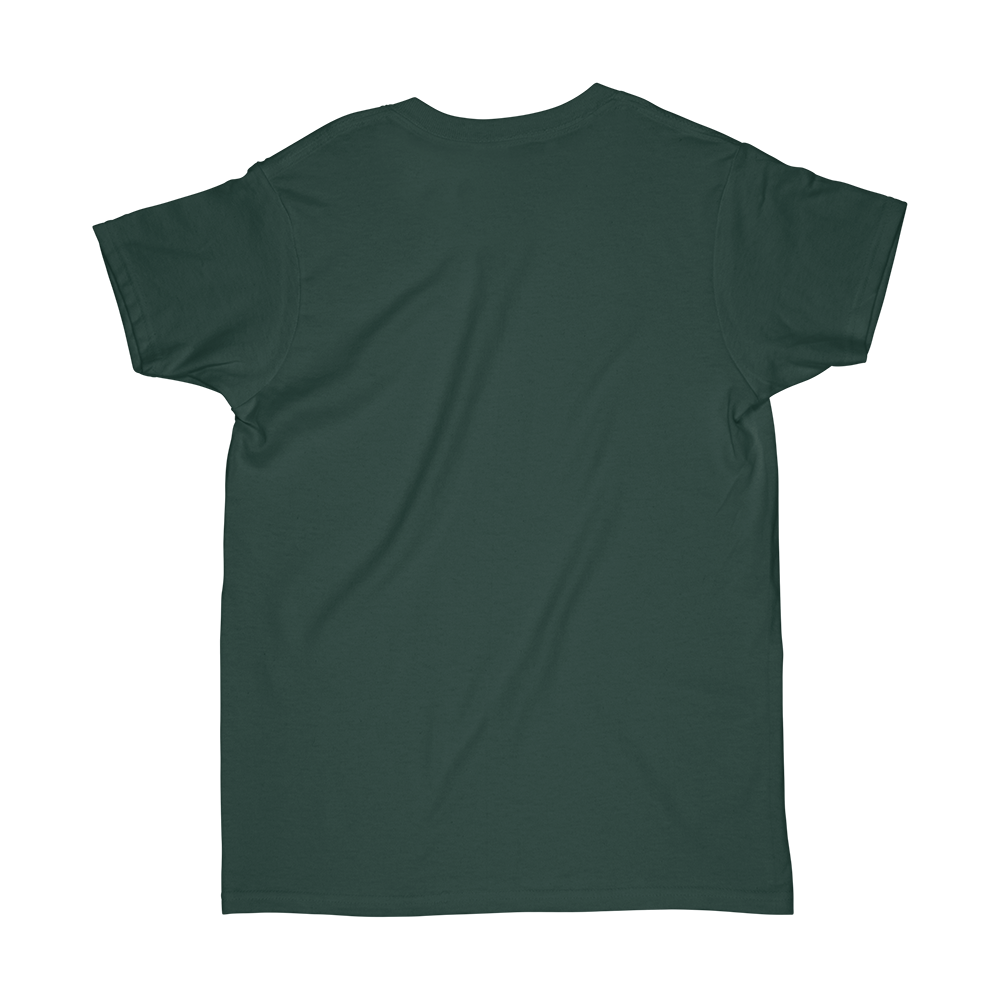
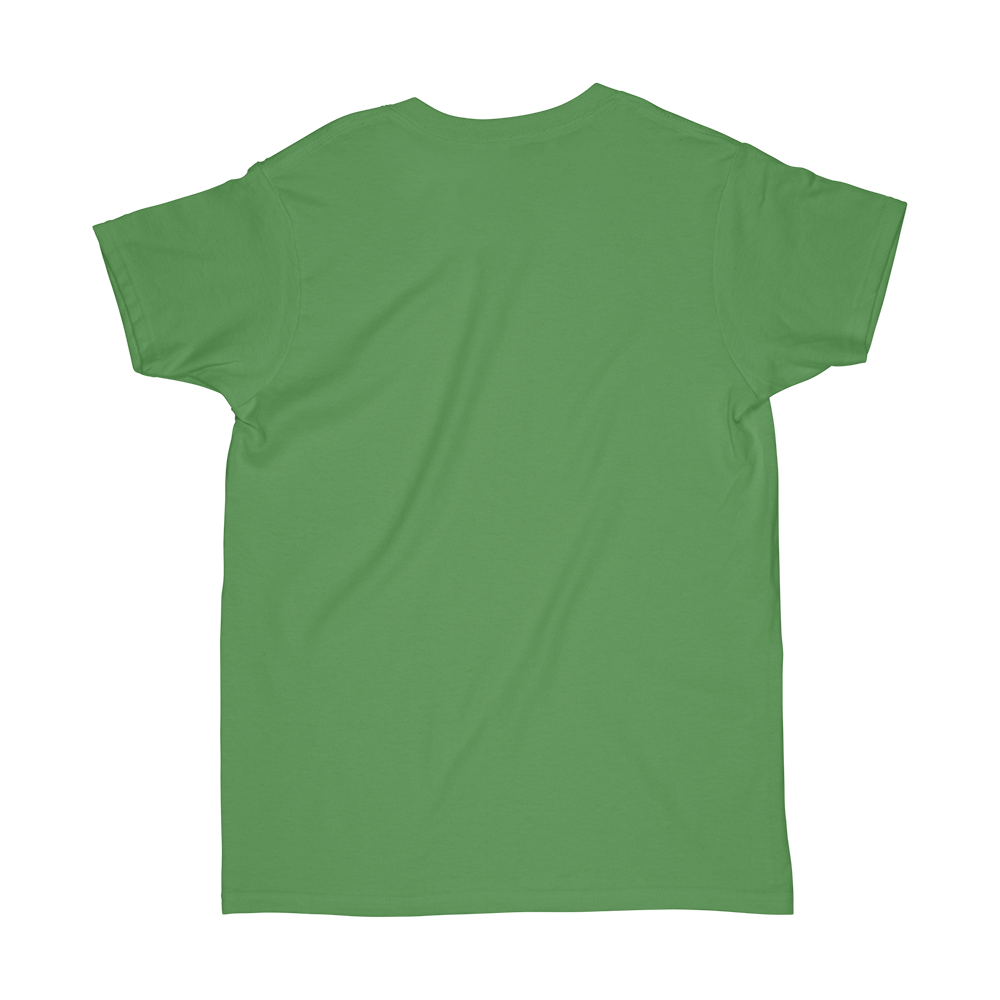
Rocketees 2.0 Upgrade

diff --git a/app/assets/stylesheets/custom.scss b/app/assets/stylesheets/custom.scss
@@ -33,6 +33,9 @@ body { background-color: #35414A; color: #F4F6F8;}
 		padding-left: 0;
 		padding-right: 40px;
 	}
+	.weekly-tee {width: 49%}
+	.left-panel {margin-right: 1%;}
+	.right-panel {margin-left: 1%;}
 }
 
 .weekly-tee {background-color: #2D3840; margin-bottom: 40px; border-radius: 3px; padding: 0;
@@ -41,29 +44,36 @@ body { background-color: #35414A; color: #F4F6F8;}
 		.panel-heading {background-color: #20272D; color: #F4F6F8; border-color: #20272D;}
 		.panel-body {background-color: #2D3840}
 	}
+	
 }
+
 
 /************/
 /* New Tee */
 /************/
 
-.new-tee { width: 1120px; margin: 20px 20px 20px 40px; padding: 0 0;
+.new-tee-wrapper {width: 100%; background-color: #2D3840;}
+
+.new-tee {width: 1120px; margin: 0; padding: 20px 20px 20px 40px; 
 	.tee-mockup { width: 540px; position: relative; margin-top: 20px;}
 	.mockup-img-wrapper {background-color: #F4F6F8; border-radius: 3px;}
 	#mockup-img, #mockup-img-f { width: 510px; margin: 0; border-radius: 3px;}
 	#design-color-flip {position: absolute; width: 40px; top: 450px; left: 20px; cursor: pointer;}
-	.specs { background-color: #2D3840; padding: 10px 20px;}
+	.specs { background-color: #35414A; padding: 10px 20px;}
 	li { color: #F4F6F8; font-size: 0.9em; line-height: 18px;}
 	table { color: #F4F6F8; font-size: 0.9em; }
 	.color-palettes { margin-bottom: 10px;
-		div { display: inline-block; width: 30px; margin-right: 20px; }
-		.palette { height: 30px; border: 2px solid #fff; }
-		.color-checkbox { margin-left: 9px; margin-top: 0; }
+		div { display: inline-block; width: 28px; margin-right: 15px; }
+		.palette { height: 28px; border: 2px solid #fff; }
+		.color-checkbox { margin-left: 8.5px; margin-top: 0; margin-bottom: 10px;}
 		.black { background-color: #0c0c0c;
 			&:hover { border: 2px solid #0c0c0c; cursor: pointer; }
 		}
 		.gray { background-color: #474747;
 			&:hover { border: 2px solid #474747; cursor: pointer; }
+		}
+		.sportgray { background-color: #c8cace;
+			&:hover { border: 2px solid #c8cace; cursor: pointer; }
 		}
 		.white { background-color: #fdfdfd;
 			&:hover { border: 2px solid #fdfdfd; cursor: pointer; }
@@ -71,15 +81,27 @@ body { background-color: #35414A; color: #F4F6F8;}
 		.navy { background-color: #050a35;
 			&:hover { border: 2px solid #050a35; cursor: pointer; }
 		}
+		.royalblue { background-color: #265c9e;
+			&:hover { border: 2px solid #265c9e; cursor: pointer; }
+		}
 		.green { background-color: #419459;
 			&:hover { border: 2px solid #419459; cursor: pointer; }
+		}
+		.pink { background-color: #d36ea4;
+			&:hover { border: 2px solid #d36ea4; cursor: pointer; }
+		}
+		.purple { background-color: #4b275d;
+			&:hover { border: 2px solid #4b275d; cursor: pointer; }
 		}
 		.red { background-color: #ae0c11;
 			&:hover { border: 2px solid #ae0c11; cursor: pointer; }
 		}
+		.orange { background-color: #f24a23;
+			&:hover { border: 2px solid #f24a23; cursor: pointer; }
+		}
 	}
 	.size-palettes { margin-bottom: 10px; color: #F4F6F8;
-		div.size-box { display: inline-block; width: 45px; margin-right: 10px; background-color: #2D3840; padding: 10px; overflow: auto; text-align: center; }
+		div.size-box { display: inline-block; width: 45px; margin-right: 10px; background-color: #35414A; padding: 10px; overflow: auto; text-align: center; }
 		.size-checkbox { margin-top: 0; }
 	}
 }
@@ -91,14 +113,14 @@ body { background-color: #35414A; color: #F4F6F8;}
 	button { padding: 5px 20px; width: 100%; height: 35px; font-size: 1.1em;}
 }
 
-.image-upload-box { margin-top: 10px; background-color: #2D3840; padding-bottom: 10px; padding-top: 10px;
+.image-upload-box { margin-top: 10px; background-color: #35414A; padding-bottom: 10px; padding-top: 10px;
  	.file-input { text-align: center; }
  	input { display: inline; margin: 0 auto 15px auto; }
 }
 
 .img-wrapper { display: inline-block; }
 
-.progress { width: 90%; margin: 0 auto; background-color: #2D3840; margin-bottom: 10px; }
+.progress { width: 90%; margin: 0 auto; background-color: #35414A; margin-bottom: 10px; }
 
 .front-design-img, .back-design-img { cursor: move; border: 1px dashed #999; width: 100%; }
 

diff --git a/app/controllers/tees_controller.rb b/app/controllers/tees_controller.rb
@@ -15,10 +15,15 @@ class TeesController < ShopifyApp::AuthenticatedController
 
       session[:colors] =  [params[:checkbox_black],
                           params[:checkbox_gray],
+                          params[:checkbox_sportgray],
                           params[:checkbox_white],
                           params[:checkbox_navy],
+                          params[:checkbox_royalblue],
                           params[:checkbox_green],
-                          params[:checkbox_red]] 
+                          params[:checkbox_pink],
+                          params[:checkbox_purple],
+                          params[:checkbox_orange],
+                          params[:checkbox_red]]
 
       session[:colors] =  session[:colors].reject { |c| c.blank? }
 
@@ -82,8 +87,8 @@ class TeesController < ShopifyApp::AuthenticatedController
   end
 
   def reset_tee_session 
-    session[:colors] = ["Black", "Gray", "White"]
-    session[:sizes] = ["XS", "S", "M", "L", "XL", "2XL", ""]
+    session[:colors] = ["Black", "Gray", "SportGray", "White"]
+    session[:sizes] = ["XS", "S", "M", "L", "XL", "2XL", "3XL"]
     session[:front_name] = ""
     session[:back_name] = ""
     session[:front_pos] = [0,0]
@@ -140,7 +145,7 @@ class TeesController < ShopifyApp::AuthenticatedController
     session[:gender] = params[:gender] if params[:gender].present?
 
     if session[:gender] == "female"
-      session[:sizes][4] = ""
+      #session[:sizes][4] = ""
     end
 
     @stripe_customer_id = Shop.where(shopify_domain: ShopifyAPI::Shop.current.myshopify_domain).first.stripe_customer_id

diff --git a/app/jobs/publish_job.rb b/app/jobs/publish_job.rb
@@ -30,6 +30,8 @@ class PublishJob < ProgressJob::Base
       update_stage('Generating variants...')
       variants = []
       @data[:colors].each do |c|
+        c = c == "SportGray" ? "Light Gray" : c
+        c = c == "RoyalBlue" ? "Royal Blue" : c
         @data[:sizes].each do |s|
           variants.push({
               "option1" => s,
@@ -147,6 +149,8 @@ class PublishJob < ProgressJob::Base
           variants_all = ShopifyAPI::Variant.find(:all, params: {product_id: new_tee.id}) # This is an array of ShopifyAPI::Variant objects
           variants_one_color = []
           variants_all.each do |v| 
+            color = color == "SportGray" ? "Light Gray" : color
+            color = color == "RoyalBlue" ? "Royal Blue" : color
             variants_one_color.push(v.id) if v.option2 == color
           end
           new_tee_img_f = ShopifyAPI::Image.new(:product_id => new_tee.id) 

diff --git a/app/controllers/home_controller.rb b/app/controllers/home_controller.rb
@@ -1,8 +1,8 @@
 class HomeController < ShopifyApp::AuthenticatedController
     def index
         #@products = ShopifyAPI::Product.find(:all, params: { limit: 10 })
-        session[:colors] = ["Black", "Gray", "White"]
-        session[:sizes] = ["XS", "S", "M", "L", "XL", "2XL", ""]
+        session[:colors] = ["Black", "Gray", "SportGray", "White"]
+        session[:sizes] = ["XS", "S", "M", "L", "XL", "2XL", "3XL"]
         session[:front_name] = ""
         session[:back_name] = ""
         session[:front_pos] = [0,0]

diff --git a/app/jobs/new_order_job.rb b/app/jobs/new_order_job.rb
@@ -19,7 +19,7 @@ class NewOrderJob < ProgressJob::Base
             num = @params
             order_params = 0
             orders.each do |order|
-                if order.order_number.to_i == num.to_i
+                if order.order_number.to_i == 32873 #num.to_i
                     order_params = order
                 end
             end
